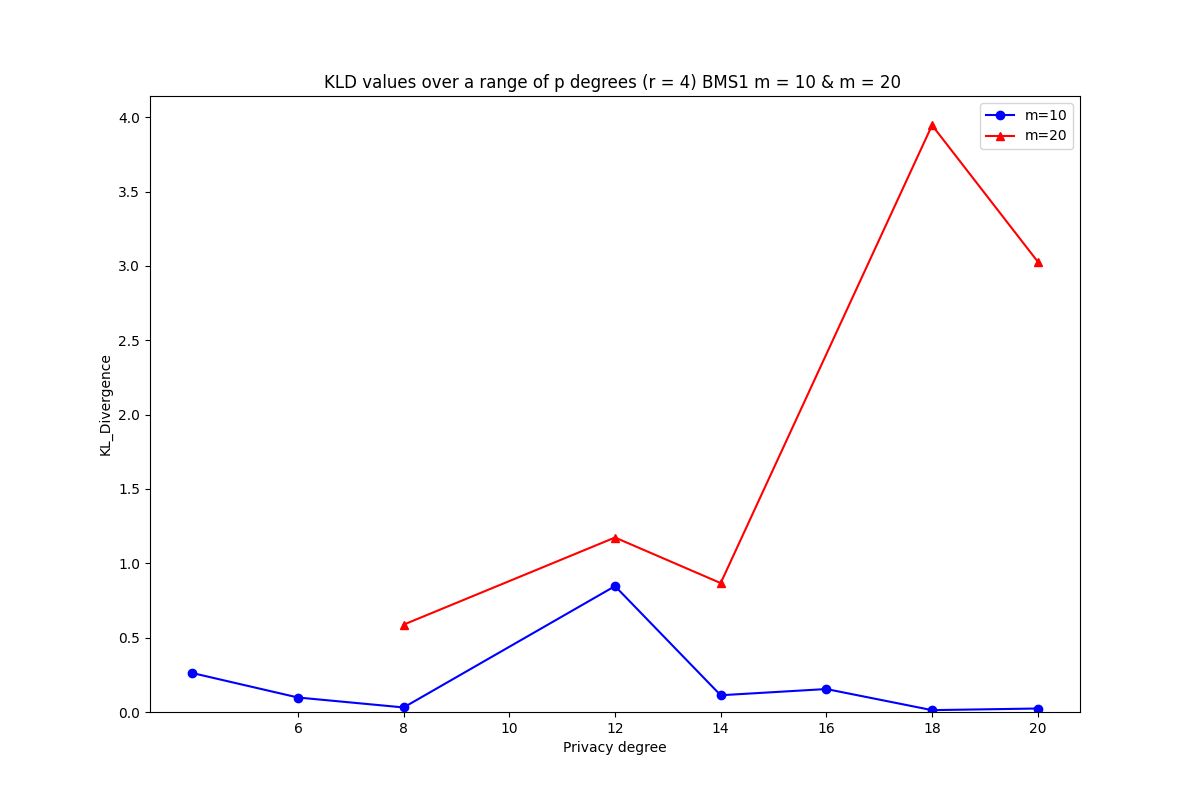
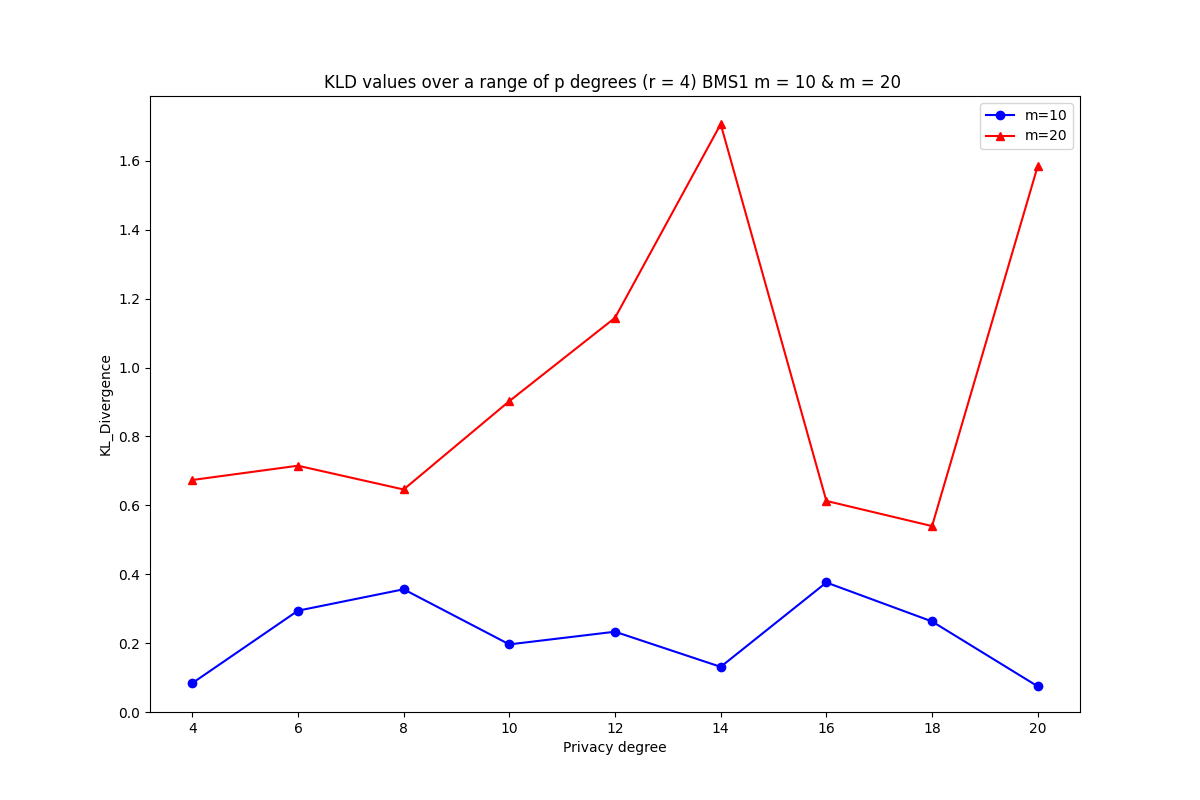
generated new plots from merged plot files

diff --git a/plot_general.py b/plot_general.py
@@ -1,34 +1,71 @@
 import pandas as pd
+import numpy as np
 import matplotlib.pyplot as plt
 from band_matrix import compute_band_matrix, logger
 
 if __name__ == "__main__":
-    BMS1_m10_privacy_ranged_df = pd.read_csv("Data_to_plot/Initial_outputs/BMS1_seed_42_1000_10.csv")
-    BMS1_m20_privacy_ranged_df = pd.read_csv("Data_to_plot/Initial_outputs/BMS1_seed_42_1000_20.csv")
+    p_range_m10_df = pd.read_csv("Data_to_plot/Merged_outputs/BMS1_p_range_m10.csv")
+    p_range_m20_df = pd.read_csv("Data_to_plot/Merged_outputs/BMS1_p_range_m20.csv")
 
-    BMS1_p10_sensitive_ranged = pd.read_csv("Data_to_plot/Initial_outputs/BMS1_seed_42_1000_p10_m_change.csv")
-    BMS1_p20_sensitive_ranged = pd.read_csv("Data_to_plot/Initial_outputs/BMS1_seed_42_1000_p20_m_change.csv")
+    m_range_p10_df = pd.read_csv("Data_to_plot/Merged_outputs/BMS1_m_range_p10.csv")
+    m_range_p20_df = pd.read_csv("Data_to_plot/Merged_outputs/BMS1_m_range_p20.csv")
 
-    logger("BMS1_m10_privacy_ranged_df", BMS1_m10_privacy_ranged_df)
-    logger("BMS1_m20_privacy_ranged_df", BMS1_m20_privacy_ranged_df)
+    r_range_pm10_df = pd.read_csv("Data_to_plot/Merged_outputs/BMS1_r_range_p10.csv")
 
-    logger("BMS1_p10_sensitive_ranged", BMS1_p10_sensitive_ranged)
-    logger("BMS1_p20_sensitive_ranged", BMS1_p20_sensitive_ranged)
+    logger("BMS1_m10_privacy_ranged_df", p_range_m10_df)
+    logger("BMS1_m20_privacy_ranged_df", p_range_m20_df)
 
+    logger("BMS1_p10_sensitive_ranged", m_range_p10_df)
+    logger("BMS1_p20_sensitive_ranged", m_range_p20_df)
+
+    #TODO: get the count of items per p_degree or m
+    # calculate the average KLD for each p_degree or m
+
+    avg_p_m10 = []
+    avg_p_m20 = []
+
+    avg_m_p10 = []
+    avg_m_p20 = []
+
+    avg_r = []
+    # p_range_m10_df = p_range_m10_df.replace(0, np.NaN)
+    # p_range_m20_df = p_range_m20_df.replace(0, np.NaN)
+    #
+    # m_range_p10_df = m_range_p10_df.replace(0, np.NaN)
+    # m_range_p20_df = m_range_p20_df.replace(0, np.NaN)
+
+    for i in p_range_m10_df["p_degree"].unique():
+        count = 0
+        avg_p_m10.append(p_range_m10_df["KLD_value"][p_range_m10_df["p_degree"] == i].mean())
+    print(avg_p_m10)
+
+    for i in p_range_m20_df["p_degree"].unique():
+        count = 0
+        avg_p_m20.append(p_range_m20_df["KLD_value"][p_range_m20_df["p_degree"] == i].mean())
+    print(avg_p_m20)
+
+    for i in m_range_p10_df["num_sensitive"].unique():
+        count = 0
+        avg_m_p10.append(m_range_p10_df["KLD_value"][m_range_p10_df["num_sensitive"] == i].mean())
+    print(avg_m_p10)
+
+    for i in m_range_p20_df["num_sensitive"].unique():
+        count = 0
+        avg_m_p20.append(m_range_p20_df["KLD_value"][m_range_p20_df["num_sensitive"] == i].mean())
+    print(avg_m_p20)
+
+    for i in r_range_pm10_df["r"].unique():
+        count = 0
+        avg_r.append(r_range_pm10_df["KLD_value"][r_range_pm10_df["r"] == i].mean())
+    print(avg_r)
     # plot KLD vs p degree
     plt.figure(figsize=(12, 8))
 
-    x_range = [6, 8, 10, 12, 14, 16, 18, 20]
-    BMS1_m10 = BMS1_m10_privacy_ranged_df[BMS1_m10_privacy_ranged_df["KLD_value"] > 0]
-    BMS1_m20 = BMS1_m20_privacy_ranged_df[BMS1_m20_privacy_ranged_df["KLD_value"] > 0]
-
-    BMS1_p10 = BMS1_p10_sensitive_ranged[BMS1_p10_sensitive_ranged["KLD_value"]>0]
-    BMS1_p20 = BMS1_p20_sensitive_ranged[BMS1_p20_sensitive_ranged["KLD_value"]>0]
-    logger("XXXXXXXX", BMS1_m10)
+    x_range = [4,6, 8, 10, 12, 14, 16, 18, 20]
 
     # Plot KLD values wrt a range of privacy degrees
-    plt.plot(BMS1_m10["p_degree"], BMS1_m10["KLD_value"], marker='o', linestyle='-', color='b', label="m=10")
-    plt.plot(BMS1_m20["p_degree"], BMS1_m20["KLD_value"], marker='^', linestyle='-', color='r', label="m=20")
+    plt.plot(p_range_m10_df["p_degree"].unique(), avg_p_m10, marker='o', linestyle='-', color='b', label="m=10")
+    plt.plot(p_range_m20_df["p_degree"].unique(), avg_p_m20, marker='^', linestyle='-', color='r', label="m=20")
     # plt.ylim(ymax=0.1)
     plt.ylim(ymin=0)
     # plt.xlim(xmin=0)
@@ -43,8 +80,8 @@ if __name__ == "__main__":
     # Plot KLD values over a changing quantity of sensitive items
     x_range = [4, 6, 8, 10, 12, 14, 16, 18, 20]
     plt.figure(figsize=(12, 8))
-    plt.plot(BMS1_p10["num_sensitive"], BMS1_p10["KLD_value"], marker='o', linestyle='-', color='b', label="p=10")
-    plt.plot(BMS1_p20["num_sensitive"], BMS1_p20["KLD_value"], marker='^', linestyle='-', color='r', label="p=20")
+    plt.plot(m_range_p10_df["num_sensitive"].unique(), avg_m_p10, marker='o', linestyle='-', color='b', label="p=10")
+    plt.plot(m_range_p20_df["num_sensitive"].unique(), avg_m_p20, marker='^', linestyle='-', color='r', label="p=20")
     # plt.ylim(ymax=0.2)
     plt.ylim(ymin=0)
     # plt.xlim(xmin=0)
@@ -56,19 +93,20 @@ if __name__ == "__main__":
     plt.savefig('./Plots/BMS1_m_vs_KLD.png')
     plt.show()
 
+    # print(map())
     # Plot CAHD execution times vs privacy degrees
-    x_range = [4, 6, 8, 10, 12, 14, 16, 18, 20]
-    plt.figure(figsize=(12, 8))
-    plt.plot(BMS1_m10_privacy_ranged_df["p_degree"], BMS1_m10_privacy_ranged_df["CAHD_exec_time"], marker='o', linestyle='-', color='b', label="m=10")
-    plt.plot(BMS1_m20_privacy_ranged_df["p_degree"], BMS1_m20_privacy_ranged_df["CAHD_exec_time"], marker='^', linestyle='-', color='r', label="m=20")
-    # plt.ylim(ymax=0.2)
-    plt.ylim(ymin=0)
-    # plt.xlim(xmin=0)
-    plt.xlabel("Number of Sensitive Items")
-    plt.ylabel("Execution Time (Seconds)")
-    plt.xticks(x_range, x_range)
-    plt.title("CAHD Execution Times Over Privacy Degrees (r = 4) BMS1 m = 10 & m = 20 ")
-    plt.legend()
-    plt.savefig('./Plots/BMS1_CAHD_exec_time_vs_p.png')
-    plt.show()
+    # x_range = [4, 6, 8, 10, 12, 14, 16, 18, 20]
+    # plt.figure(figsize=(12, 8))
+    # plt.plot(p_range_m10_df["p_degree"].unique(), p_range_m10_df["CAHD_exec_time"], marker='o', linestyle='-', color='b', label="m=10")
+    # plt.plot(p_range_m20_df["p_degree"].unique(), p_range_m20_df["CAHD_exec_time"], marker='^', linestyle='-', color='r', label="m=20")
+    # # plt.ylim(ymax=0.2)
+    # plt.ylim(ymin=0)
+    # # plt.xlim(xmin=0)
+    # plt.xlabel("Number of Sensitive Items")
+    # plt.ylabel("Execution Time (Seconds)")
+    # plt.xticks(x_range, x_range)
+    # plt.title("CAHD Execution Times Over Privacy Degrees (r = 4) BMS1 m = 10 & m = 20 ")
+    # plt.legend()
+    # plt.savefig('./Plots/BMS1_CAHD_exec_time_vs_p.png')
+    # plt.show()
 
